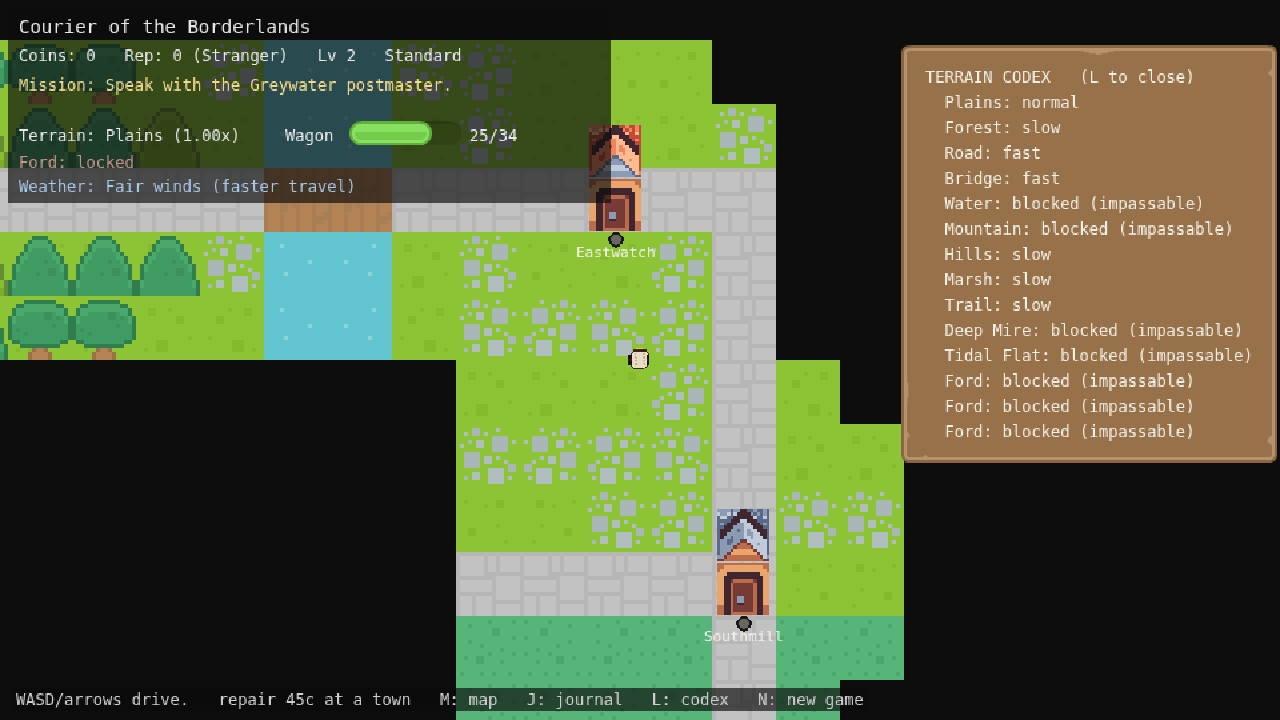
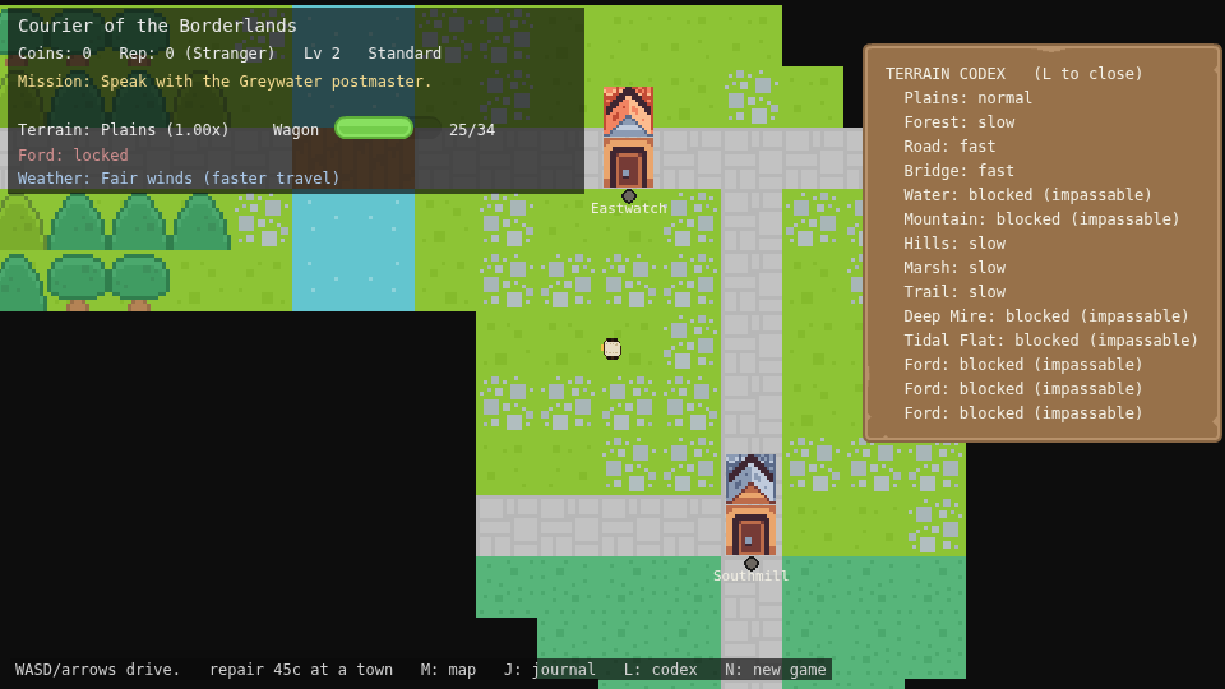
feat: link the manual from the game page
Nothing in play.html or src/ referenced manual.html, so a player linked
straight to the game had no route to it. That is most players: the landing
page is easy to skip past, and the people most likely to want the manual are
the ones already stuck in the game.

Adds a slim chrome bar under the canvas with Home and Manual links. The
manual opens in a new tab so a run in progress is left alone.

A bar rather than a link floating over the canvas: every canvas corner is
already spoken for (title top-left, toasts top-right, minimap bottom-right,
controls hint bottom-left), and Phaser is Scale.FIT + CENTER_BOTH, so on most
window shapes the bar eats dead letterbox space rather than game.

The bar shortens the canvas (1280x720 -> 1225x689 at the e2e viewport), so
the committed shots are regenerated and index.html's width/height attributes
follow. The framing is unchanged; the shorter camera happens to reveal
slightly more east of the route.

Slice of #237.

diff --git a/play.html b/play.html
@@ -12,17 +12,59 @@
         background: #1a1a1a;
         overflow: hidden;
       }
+      /* Column layout so the chrome bar sits under the canvas rather than over
+         it. Phaser is Scale.FIT + CENTER_BOTH, so the canvas keeps its 16:9
+         letterbox inside whatever height #game is left with, and on most windows
+         the bar eats dead letterbox space rather than game. Floating the links
+         over the canvas instead was the other option, but every canvas corner is
+         already spoken for: title top-left, toasts top-right, minimap
+         bottom-right, controls hint bottom-left. */
+      body {
+        display: flex;
+        flex-direction: column;
+        height: 100vh;
+      }
       #game {
+        flex: 1;
+        /* Without this a flex child refuses to shrink below its content size and
+           the bar gets pushed off-screen. */
+        min-height: 0;
         display: flex;
         justify-content: center;
         align-items: center;
-        width: 100vw;
-        height: 100vh;
+      }
+      .chrome {
+        display: flex;
+        gap: 18px;
+        justify-content: center;
+        align-items: center;
+        padding: 6px 12px;
+        border-top: 1px solid #3a3426;
+        background: #14140f;
+        /* Matches the landing page and manual so the site reads as one place. */
+        font-family: system-ui, -apple-system, Segoe UI, Roboto, sans-serif;
+        font-size: 0.8rem;
+      }
+      .chrome a {
+        color: #a99f86;
+        text-decoration: none;
+      }
+      .chrome a:hover,
+      .chrome a:focus-visible {
+        color: #c9a24a;
+        text-decoration: underline;
       }
     </style>
   </head>
   <body>
     <div id="game"></div>
+    <!-- The manual opens in a new tab so a run in progress is left alone. It is
+         the only route to the manual for anyone linked straight to the game,
+         which is most people: the landing page is easy to skip past. -->
+    <nav class="chrome">
+      <a href="./index.html">Home</a>
+      <a href="./manual.html" target="_blank" rel="noopener">Manual</a>
+    </nav>
     <script type="module" src="/src/main.ts"></script>
   </body>
 </html>

diff --git a/index.html b/index.html
@@ -322,8 +322,8 @@
               <img
                 src="./assets/screenshots/exploring.png"
                 alt="The courier wagon on an east-bank road between Eastwatch and Southmill, with revealed terrain around it and unexplored black fog beyond."
-                width="1280"
-                height="720"
+                width="1225"
+                height="689"
               />
             </a>
             <figcaption>
@@ -336,8 +336,8 @@
               <img
                 src="./assets/screenshots/skills.png"
                 alt="The courier skills panel, showing Wayfinder, Off-road, Negotiator, and Cipher with a point invested in Off-road."
-                width="1280"
-                height="720"
+                width="1225"
+                height="689"
               />
             </a>
             <figcaption>
@@ -349,8 +349,8 @@
               <img
                 src="./assets/screenshots/codex.png"
                 alt="The terrain codex panel, listing each terrain type and whether it is fast, slow, or impassable."
-                width="1280"
-                height="720"
+                width="1225"
+                height="689"
               />
             </a>
             <figcaption>